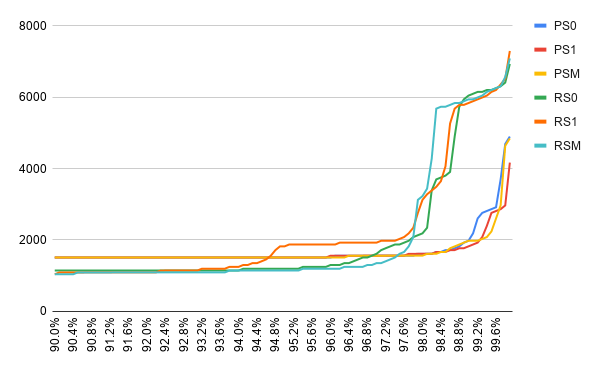
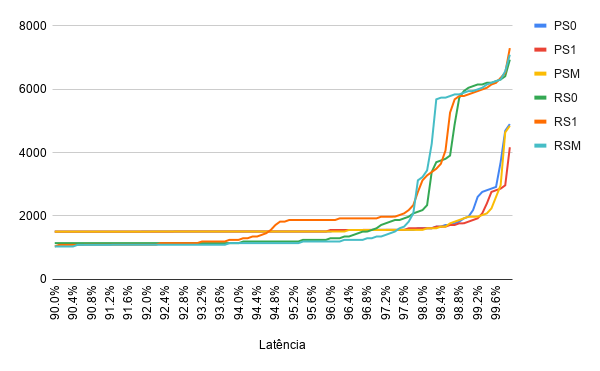
sync overleaf

Changed region(s): [[0.03, 0.1186, 0.87, 0.9488], [0.03, 0.3854, 0.09, 0.4744], [0.03, 0.5633, 0.09, 0.593]]

diff --git a/experimentos.tex b/experimentos.tex
@@ -4,11 +4,11 @@ Nesta seção irei mostrar o resultado das medições de latência realizadas no
 
 \section{Configuração do teste}
 
-As medições foram agrupadas por tipo de kernel, tipo de interrupção e carga na CPU, resultando em um total de 18 grupos de teste. Cada grupo passou por uma bateria de medições. Em cada bateria de teste, foram executadas 50000 medições com um intervalo de 20ms entre elas. 
+As medições foram agrupadas por tipo de kernel, tipo de interrupção e carga na CPU. Durante a construção deste trabalho foram encontrados problemas na adaptação do INTSight com o Xenomai, detalhados no capítulo 5. Portanto esta sessão irá abordar os resultados com o kernel padrão do Linux e os resultados com o Preempt-RT. Essas configurações resultam em um total de 18 grupos de teste. Cada grupo passou por uma bateria de medições. Em cada bateria de teste, foram executadas 50000 medições com um intervalo de 20ms entre elas. 
 
 O INTSight gera 2 arquivos no format CSV para cada bateria de medições. Um dos arquivos chamado name contém o tipo de evento que disparou a coleta do tempo de sistema. Outro arquivo com o nome do tipo de contador utilizado, ktime\_mono\_fast em todos os teste deste trabalho, contém o valor do contador no instante que a coleta foi disparada. Em ambos os arquivos, cada medição ocupa uma linha do arquivo.
 
-No repositório do INTSight é disponibilizado um script em R que faz o junção destes arquivos em um único utilzando as seguintes informação: position (posição do item dentro da medição), run (número da medição dentro da bateria), name (evento que disparou a medição), ktime\_mono\_fast (valor do contador de tempo). Para consolidar os resultados das 18 baterias, foi feito um script python que encontra-se disponível em github. Este script também faz um tratamento dos dados úteis, pois o INTSight pode apresentar valores zerados quando ocorre algum erro durante uma medição.
+No repositório do INTSight é disponibilizado um script em R que faz o junção destes arquivos em um único utilzando as seguintes informação: position (posição do item dentro da medição), run (número da medição dentro da bateria), name (evento que disparou a medição), ktime\_mono\_fast (valor do contador de tempo). Para consolidar os resultados das 18 baterias, foi feito um script Python que encontra-se disponível no repositório https://github.com/taianf/kernel-tcc/tree/master/benchmarks. Este script também faz um tratamento dos dados úteis, pois o INTSight pode apresentar valores zerados quando ocorre algum erro durante uma medição.
 
 \section{Visão geral}
 
@@ -21,19 +21,19 @@ Na tabela \ref{table:rpi} temos uma visão sumarizada do tempo de latência em n
 \begin{table}[!htb]
 \centering
 \begin{center}
-\begin{tabular}{|c||r|r|r|r|r|r|r|r|r|}
+\begin{tabular}{|c|r|r|r|r|r|r|r|r|r|}
 \toprule
 Percentil &    RS0 &     RS1 &    RSM &    RT0 &    RT1 &    RTM &    RW0 &     RW1 &      RWM \\
 \midrule
-    min &    833 &     782 &    781 &    625 &    938 &    573 &   7604 &    5730 &     5156 \\
-    25\% &   1041 &     937 &    937 &   1145 &   1145 &   1146 &   8021 &    8073 &     8750 \\
-    50\% &   1042 &     938 &    938 &   1146 &   1146 &   1146 &   8124 &    8177 &     8854 \\
-    75\% &   1094 &     990 &    990 &   1198 &   1198 &   1250 &   8229 &    8802 &     8958 \\
-    90\% &   1146 &    1042 &   1042 &   1302 &   1302 &   1406 &   8489 &    9011 &     9218 \\
-    95\% &   1198 &    1823 &   1146 &   1406 &   1927 &   2187 &  11823 &    9896 &     9791 \\
-    99\% &   6041 &    5833 &   5937 &   6250 &   6251 &   6198 &  16667 &   18021 &    18282 \\
-    99.9\% &   6927 &    7291 &   7083 &   7292 &   8073 &  10156 &  31615 &   27916 &    25260 \\
-    max &  15156 &  191821 &  19375 &  34998 &  25834 &  45260 &  84635 &  983798 &  4153458 \\
+    min &    833 &    365 &    781 &    625 &    938 &    573 &   7604 &    5730 &     5156 \\
+    25\% &   1041 &    937 &    937 &   1145 &   1145 &   1146 &   8021 &    8073 &     8750 \\
+    50\% &   1042 &    938 &    938 &   1146 &   1146 &   1146 &   8124 &    8177 &     8854 \\
+    75\% &   1094 &    990 &    990 &   1198 &   1198 &   1250 &   8229 &    8802 &     8958 \\
+    90\% &   1146 &   1094 &   1042 &   1302 &   1302 &   1406 &   8489 &    9011 &     9218 \\
+    95\% &   1198 &   1146 &   1146 &   1406 &   1927 &   2187 &  11511 &    9896 &     9791 \\
+    99\% &   6041 &   5677 &   5937 &   6250 &   6251 &   6198 &  16666 &   18021 &    18282 \\
+  99.9\% &   6927 &   6406 &   7187 &   7188 &   8073 &  10677 &  30520 &   27917 &    25052 \\
+    max &  15156 &  20365 &  19375 &  34998 &  25834 &  45260 &  84635 &  983798 &  4153458 \\
 \bottomrule
 \end{tabular}
 \end{center}
@@ -44,19 +44,19 @@ Percentil &    RS0 &     RS1 &    RSM &    RT0 &    RT1 &    RTM &    RW0 &     
 \begin{table}[!htb]
 \centering
 \begin{center}
-\begin{tabular}{|c||r|r|r|r|r|r|r|r|r|}
+\begin{tabular}{|c|r|r|r|r|r|r|r|r|r|}
 \toprule
 Percentil &    PS0 &    PS1 &    PSM &    PT0 &    PT1 &    PTM &    PW0 &     PW1 &    PWM \\
 \midrule
-    min &   1197 &   1146 &   1197 &   1614 &   1563 &   1614 &  11563 &   11562 &  11562 \\
-    25\% &   1406 &   1406 &   1406 &   1823 &   1823 &   1823 &  12084 &   12084 &  12083 \\
-    50\% &   1407 &   1407 &   1458 &   1875 &   1875 &   1875 &  12239 &   12240 &  12187 \\
-    75\% &   1459 &   1458 &   1459 &   1927 &   1927 &   1875 &  12396 &   12447 &  12344 \\
-    90\% &   1510 &   1510 &   1510 &   1980 &   1979 &   1927 &  12761 &   12760 &  12656 \\
-    95\% &   1511 &   1511 &   1511 &   2032 &   2031 &   1979 &  13334 &   13177 &  13073 \\
-    99\% &   1979 &   1823 &   1979 &   2448 &   3073 &   3125 &  21615 &   23490 &  19323 \\
-    99.9\% &   4896 &   4167 &   4844 &   5469 &   5729 &   5468 &  42188 &   44271 &  39843 \\
-    max &  18698 &  17656 &  17657 &  17343 &  16979 &  17865 &  80526 &  259583 &  86198 \\
+  min &   1197 &   1146 &   1197 &   1614 &   1563 &   1614 &  11563 &  11562 &  11562 \\
+  25\% &   1406 &   1406 &   1406 &   1823 &   1823 &   1823 &  12084 &  12031 &  12083 \\
+  50\% &   1407 &   1407 &   1458 &   1875 &   1875 &   1875 &  12239 &  12135 &  12187 \\
+  75\% &   1459 &   1458 &   1459 &   1927 &   1927 &   1875 &  12396 &  12291 &  12344 \\
+  90\% &   1510 &   1510 &   1510 &   1980 &   1979 &   1927 &  12761 &  12605 &  12656 \\
+  95\% &   1511 &   1511 &   1511 &   2032 &   2031 &   1979 &  13334 &  13229 &  13073 \\
+  99\% &   1979 &   1823 &   1979 &   2447 &   3073 &   3125 &  21928 &  20313 &  19323 \\
+99.9\% &   4896 &   4062 &   4844 &   5364 &   5781 &   5468 &  40677 &  46146 &  39843 \\
+max &  18698 &  17656 &  17657 &  17343 &  16979 &  17865 &  80526 &  73854 &  86198 \\
 \bottomrule
 \end{tabular}
 \end{center}
@@ -83,7 +83,7 @@ O Preempt-RT se mostra bem estável, independente do tipo de carga na CPU, para 
 
 \begin{figure}[!htb]
     \centering
-    \includegraphics[width=1.0\textwidth]{graficos/softirq.png}
+    \includegraphics[width=0.85\textwidth]{graficos/softirq.png}
     \caption{Latência com Softirq em nanossegundos}
     \label{grafico:softirq}
 \end{figure}
@@ -95,7 +95,7 @@ O Preempt-RT se mostra bem estável, independente do tipo de carga na CPU, para 
             \toprule
                 PS0 &    PS1 &    PSM &    RS0 &     RS1 &    RSM \\
             \midrule
-                18698 &	17656 &	17657 & 15156 & 191821 &	19375 \\
+                18698 &  17656 &  17657 & 15156 &  20365 &  19375 \\
             \bottomrule
         \end{tabular}
     \end{center}
@@ -114,7 +114,7 @@ Ao contrário do que acontece no Softirq, no Tasklet a latência máxima do Pree
 
 \begin{figure}[!htb]
     \centering
-    \includegraphics[width=1.0\textwidth]{graficos/tasklet.png}
+    \includegraphics[width=0.85\textwidth]{graficos/tasklet.png}
     \caption{Latência com Tasklet em nanossegundos}
     \label{grafico:tasklet}
 \end{figure}
@@ -126,7 +126,7 @@ Ao contrário do que acontece no Softirq, no Tasklet a latência máxima do Pree
             \toprule
                 PT0 &    PT1 &    PTM &    RT0 &     RT1 &    RTM \\
             \midrule
-                17343 &	16979 &	17865 & 34998 &	25834 &	45260 \\
+                17343 &  16979 &  17865 & 34998 &  25834 &  45260  \\
             \bottomrule
         \end{tabular}
     \end{center}
@@ -145,7 +145,7 @@ Quando se considera uma CPU sobrecarregada, o tempo do Preempt-RT se assemelhou 
 
 \begin{figure}[!htb]
     \centering
-    \includegraphics[width=1.0\textwidth]{graficos/workqueue.png}
+    \includegraphics[width=0.85\textwidth]{graficos/workqueue.png}
     \caption{Latência com Workqueue em nanossegundos}
     \label{grafico:workqueue}
 \end{figure}
@@ -157,7 +157,7 @@ Quando se considera uma CPU sobrecarregada, o tempo do Preempt-RT se assemelhou 
             \toprule
                 PW0 &    PS1 &    PWM &    RW0 &     RW1 &    RWM \\
             \midrule
-                80526 &	259583 &	86198 & 84635 &	983798 & 	4153458 \\
+                80526 &  73854 &  86198 & 84635 &  983798 &  4153458 \\
             \bottomrule
         \end{tabular}
     \end{center}

diff --git a/especificacao.tex b/especificacao.tex
@@ -4,14 +4,31 @@ Nesta seção serão abordadas as especificações do ambiente utilizado para se
 
 \section{Soluções de SOTR Linux}
 
-Existem várias maneiras de se tornar o linux um Sistema Operacional de Tempo Real, mas são 3 maneiras as principais de conseguir esse objetivo. A primeira maneira é alterar a configuração do kernel durante a compilação permitindo preempção total. A segunda é organizar a ativação das tarefas a partir dos tipos de tratadores de interrupção. A terceira maneira é utilizar um nanokernel para intermediar o kernel com o hardware. Na seção 3.1.1 veremos o Preempt-RT, que torna o kernel totalmente preemptível, e na seção 3.1.2 veremos o Xenomai, que utiliza a estratégia de nanokernel.
+Existem várias maneiras de se tornar o linux um Sistema Operacional de Tempo Real, mas são 3 maneiras as principais de conseguir esse objetivo. A primeira maneira é alterar a configuração do kernel durante a compilação permitindo preempção total. A segunda é organizar a ativação das tarefas a partir dos tipos de tratadores de interrupção. A terceira maneira é utilizar um nanokernel para intermediar o kernel com o hardware. 
 
-\subsection{Preempt-RT}
+O patch Preempt-RT é o patch de tempo real padrão para o Raspberry e vários outros casos em que o Linux é utilizado. Ele torna o kernel completamente preemptível, afim de diminuir a latência de interrupção. O desenvolvimento é liderado por Ingo Molnar e conta com a contribuição de vários desenvolvedores pelo mundo  \cite{McKenney2005, Molnar2016}. No Preempt-RT seções críticas podem ser preemptadas, então uma tarefa crítica pode acabar sendo movida para outro núcleo durante a execução. Quase todos os tratadores de interrupção são executados em contexto de processo no ambiente do Preempt-RT, isso permite que os tratadores sejam interrompidos.
 
+O Xenomai é um patch que utiliza a estratégia de nanokernel. Os nanokernels funcionam como uma camade extra de abstração entre o hardware e o kernel. Ele trata as interrupções de hardware e as define em interrupções para aplicação de tempo real ou não. Se for de tempo real, interrompe o kernel para que a tarefa seja executada imediatamente. Caso contrário, enfileira a tarefa para ser executada em outro momento \cite{Xenomai2005}.
 
-\subsection{Xenomai}
 \section{Raspberry}
-\subsection{Componentes}
-\subsection{Modelo multicore}
-\section{INTSpect}
-% \subsubsection{Registradores especiais}
+
+O Raspberry é um computador completo do tamanho de um cartão de crédito com todo o hardware em uma única placa. Possui um preço acessível e é muito utilizado para projetos que requerem um computador que também portátil. Mantido pela Raspberry Foundation \cite{RPF2019} seu principal objetivo é promover o ensino de computação. O primeiro modelo foi lançado em 2012 e se tornou um enorme sucesso.
+
+O modelo utilizado neste trabalho é o Raspberry Pi 3 Model B. Este modelo possui uma CPU Broadcom BCM2837, com quatro núcleos, frequência de 1.2GHz e 64bit, 1 GB de memória RAM, acesso a WI-FI, Bluetooth, entrada ethernet, 40 pinos de propósito geral, 4 entradas USB, saídas de áudio e vídeo, saída HDMI e entrada para cartão microSD.
+
+O sistema operaional padrão é o Linux na distribuição Raspbian, uma distribuição baseada na Debian. É possível utilizar qualquer outra distribuição compatível com a arquitetura ARM e o fabricante disponibiliza um utilitário para auxiliar na escolha e gravação do sistema operacional em um cartão SD, que será a principal memória de dados do Raspberry.
+
+\section{Módulos INTSpect e INTSight}
+
+Em sistemas computacionais complexos, a quantidade de variáveis é tão grande que não existe um cálculo que possa ser feito para prever o tempo que uma interrupção leva para ser tratada, pois não basta levar em conta a especificação de hardware, que muitas vezes não é aberta, para evitar que segredos industriais sejam expostos a concorrentes, é preciso também levar em conta toda a estrutura de software do sistema operacional. Portanto, realizar medições empíricas é a melhor forma de avaliar o tempo de interrupção de sistema em sistema reais. Porém, realizar essas medições nem sempre é trivial.
+
+Tendo o exposto no parágrafo anterior em mente, Luis Gerhorst \cite{Gerhorst2018} desenvolveu uma ferramenta para auxiliar os desenvolvedores a realizar essas medições e fazer análises a respeito do tempo de interrupção. Esta ferramenta foi dividida em 2 módulos: INTSight, que é um módulo do kernel responsável por realizar as medições, e o INTSpect que é um módulo para disparar os benchmarks no INTSight.
+
+O INTSpect é capaz de medir a latência de interrupção e a latência de ativação, suporta vários métodos de medição, gera dados em formato simples para serem analisados depois, para não comprometer a medição, e realiza fotos do sistema antes das baterias de medições para tornar os resultados facilmente reproduzíveis. Os locais no código onde o INTSpect realiza as medições são definidos em tempo de compilação. Isso troca flexibilidade por uma acurácia maior na medição.
+
+O INTSight tem a função de realizar as medições da latência de ativação para os vários mecanismos disponíveis no Linux tendo o mínimo de interferência possível. Na inicialização, o INTSight aloca uma rotina de serviço de interrpção (ISR) e um softirq, tasklet ou workqueue usado para o teste. Para levar em conta as variações que ocorrem, a quantidade de medições pode ser configurada. No início de cada medição, uma thread coordena a ativação da interrupção utilizando um mecanismo que depende da plataforma. 
+
+O método de medição utilizado foi o k\_time\_mono\_fast por ser o segundo método com menor custo dentro os apresentados por Luis. O método com menor custo, para uma plataforma ARM, seria utilizar o PMCCNTR, que é um registrador específico que conta a quantidade de pulsos de clock que ocorreram na CPU, então a sua leitura tem o custo de ler um registrador. Na medição feita por ele foi utilizado uma placa single-core. Sabendo a frequência de operação da CPU, é possível ter saber o tempo decorrido realizando uma conta simples. No Raspberry, temos uma CPU com quatro núcleos, e não temos nenhuma garantia que o núcleo que vai tratar a interrupção é o mesmo que a disparou. Como cada núcleo tem seu prório contador, os valores não podem ser comparados. Para continuar com esse método de medição, seria necessário utilizar apenas um núcleo do Raspberry, desativando os demais, ou inserir algum outro mecanismo de sincronização dentro do código do INTSight. Isso mudaria o comportamento real da CPU do Raspberry e traria um resultado que não é comparável a uma situação de uso real.
+
+
+Para gerar as interrupções de hardware no Raspberry, foram utlizados os pinos 16 e 18, BCM23 e BCM24, respectivamente. Um dos pinos estava em modo escrita, enviando um sinal para o outro, configurado em modo leitura. O Raspberry utiliza 3,3 V em seus pinos digitais e pelo guia de uso não deve ter uma corrente maior que 16 mA, portanto foi utilizado um resistor de 300 ohms para fazer a ligação entre os pinos.

diff --git a/introducao.tex b/introducao.tex
@@ -6,11 +6,11 @@ Hoje, os drones são muito populares, tanto para uso recreativo quanto para dive
 
 Para que o drone possa executar uma missão automática ou autonomamente, é necessário um sistema de controle capaz de interpretar os dados dos sensores, fazer cálculos e tomar decisões. Alguns modelos de drones possuem sistemas operacionais e sensores embarcados que são suficientes para que se projete uma missão automática. Em outros casos, como o modelo \textit{Parrot AR.Drone 2.0} \cite{Parrot2019a}, utilizado pelo LaSid, o sistema é muito simples para ser capaz de realizar tarefas mais complexas. Uma solução é adotar um sistema auxiliar acoplado ao drone, capaz de interagir com as APIs do sistema do drone. Um sistema que se adequa bem a essa tarefa é o Raspberry Pi.
 
-O Raspberry Pi é um computador do tamanho de um cartão de crédito que pode se conectar a uma TV ou monitor e usar periféricos como mouse e teclado \cite{RPF2019a}. O sistema operacional padrão é o Linux, cuja distribuição principal é a Raspbian, com base na distribuição Debian. A possibilidade de usar o Linux torna o Raspberry uma solução muito mais flexível em comparação com outras soluções de microcontroladores, como o Arduino, por exemplo.
+O Raspberry Pi é um computador do tamanho de um cartão de crédito que pode se conectar a uma TV ou monitor e usar periféricos como mouse e teclado \cite{RPF2019}. O sistema operacional padrão é o Linux, cuja distribuição principal é a Raspbian, com base na distribuição Debian. A possibilidade de usar o Linux torna o Raspberry uma solução muito mais flexível em comparação com outras soluções de microcontroladores, como o Arduino, por exemplo.
 
 A desvantagem vem do fato de que sistemas como o Arduino podem ser determinísticos, ou seja, sempre respondem dentro de um tempo máximo calculado, enquanto o sistema Linux padrão não tem garantias temporais para responder a um evento externo. No entanto a frequência de operação do processador do Raspberry é muito superior à do Arduino (1200MHz no modelo utilizado pelo LaSid contra 16 MHz do Arduino Uno, modelo mais comum), o Raspberry quase sempre pode responder mais rápido do que uma solução semelhante no Arduino.
 
-Para a maioria das aplicações, este comportamento pode ser satisfatório. Em aplicações críticas, no entanto, uma única resposta atrasada pode significar uma falha catastrófica. Para lidar com esses cenários em que o tempo máximo de resposta deve ser previsível, foram criados patches para o kernel Linux a fim de torná-lo um Sistema de Tempo Real. 
+Na maioria das aplicações, este comportamento pode ser satisfatório. Em aplicações críticas, no entanto, uma única resposta atrasada pode significar uma falha catastrófica. Para lidar com esses cenários em que o tempo máximo de resposta deve ser previsível, foram criados patches para o kernel Linux a fim de torná-lo um Sistema de Tempo Real. 
 
 \section{Motivação}
 
